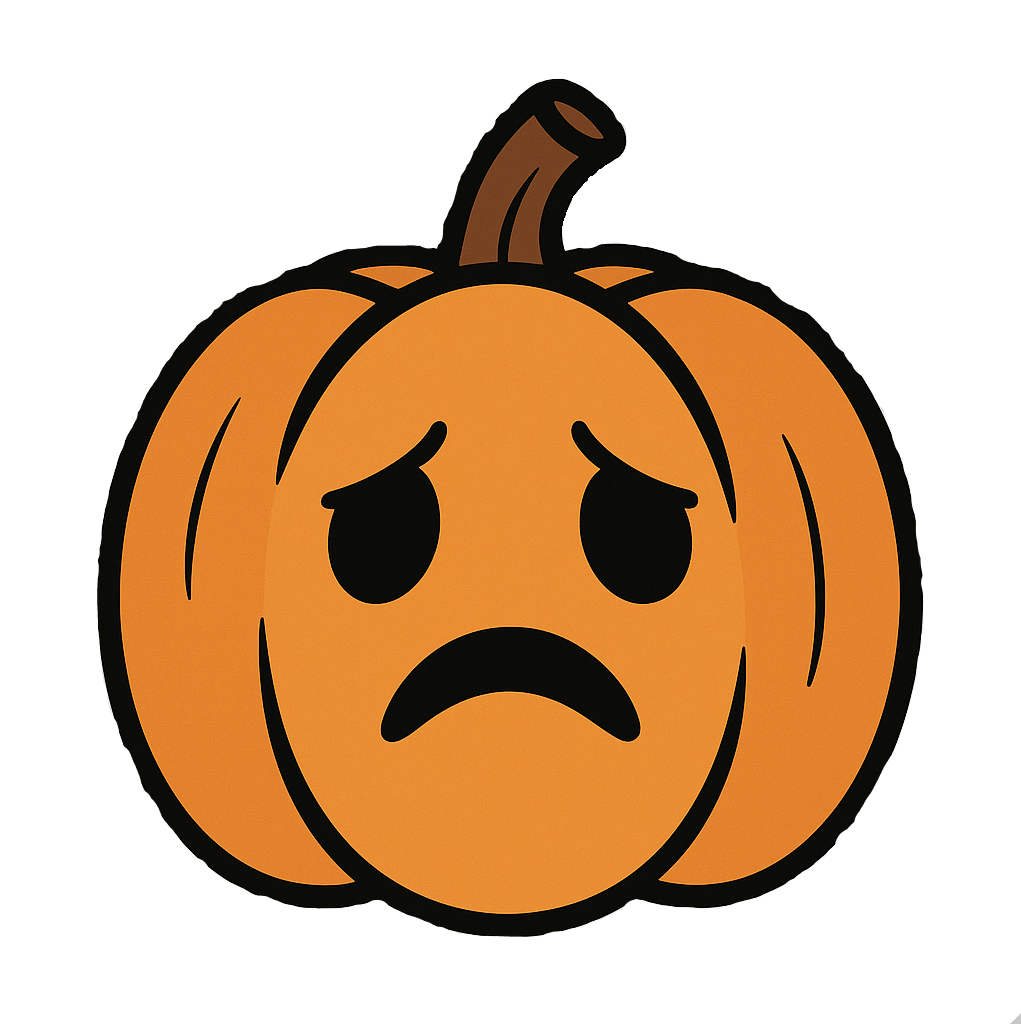
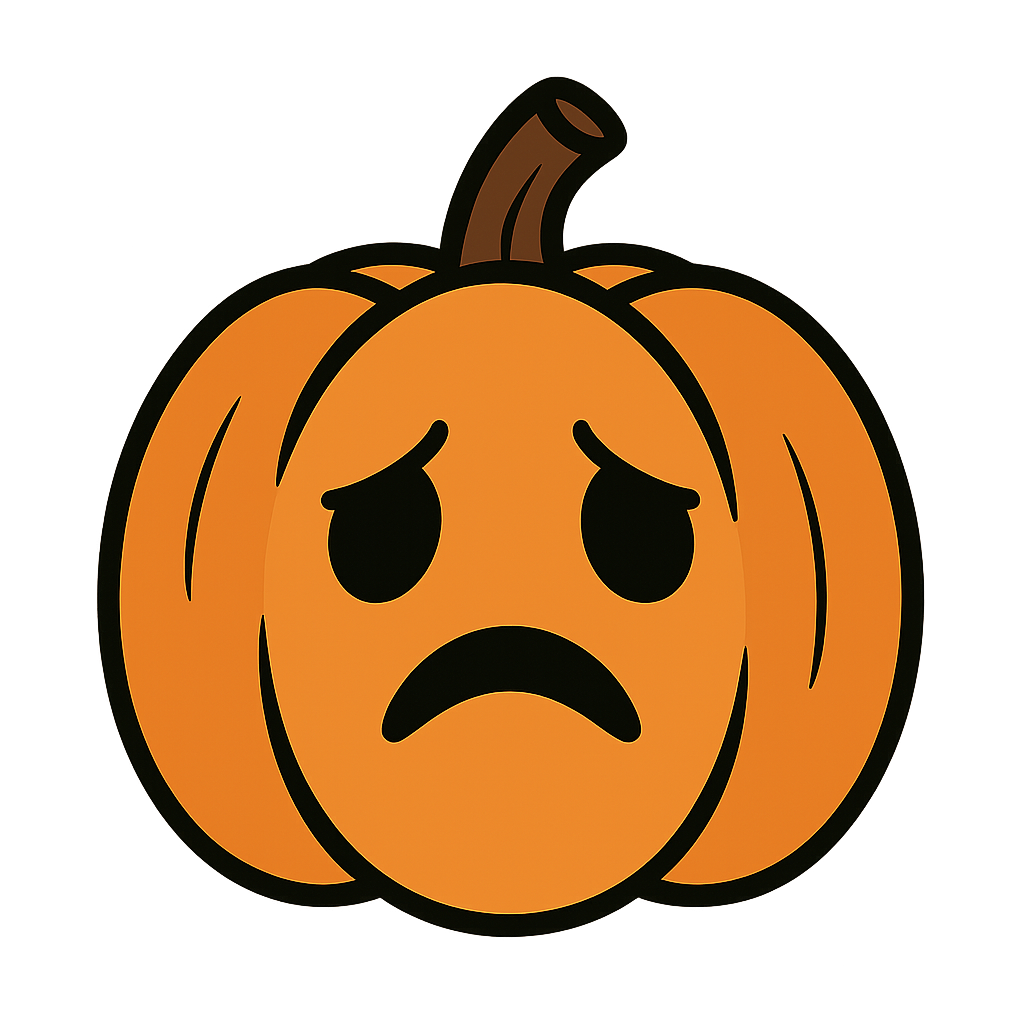
updated pumpkin image to remove previous white patches

diff --git a/assets/js/main.js b/assets/js/main.js
@@ -84,6 +84,10 @@ const buttonPlay = document.getElementById('start-button');
 function animatePumpkin() {
     pumpkinImg.classList.remove('ghost');
     pumpkinImg.classList.add('ghost-visible');
+    death = true;
+    stopAllMusic();
+    console.log('Ghost button clicked: playing deathMusic');
+    checkStates();
 }
 // function to activate ghost and change music
 function animateGhosts() {
@@ -129,12 +133,15 @@ function startTimer() {
 
     if (timeLeft <= 0) {
       clearInterval(timer);
+      disableOptions();
       feedbackEl.textContent =
         "Time is up! The correct answer was: " +
         riddles[currentRiddleIndex].answer;
-      answerInput.disabled = true;
-      submitBtn.style.display = "none";
       nextBtn.style.display = "inline";
+      
+      // Trigger pumpkin animation and music change
+      animatePumpkin();
+      modal.classList.remove('fade-out');
     }
   }, 1000);
 }

diff --git a/game.html b/game.html
@@ -17,6 +17,9 @@
 		<div style="position: fixed ; z-index: 999; pointer-events: none;">
 			<img src="assets/images/ghost.png" alt="Image of a ghost" class="ghost" id="ghost" style="width: 450px; height: auto;">
 		</div>
+		<div style="position: fixed ; z-index: 999; pointer-events: none;">
+			<img src="assets/images/sad pumpkin.png" alt="Image of a sad pumpkin" class="ghost" id="pumpkin" style="width: 450px; height: auto;">
+		</div>
 
 		<div class="book container d-flex justify-content-center align-items-center gap-1 row ">
             <!-- Left side of grid -->
